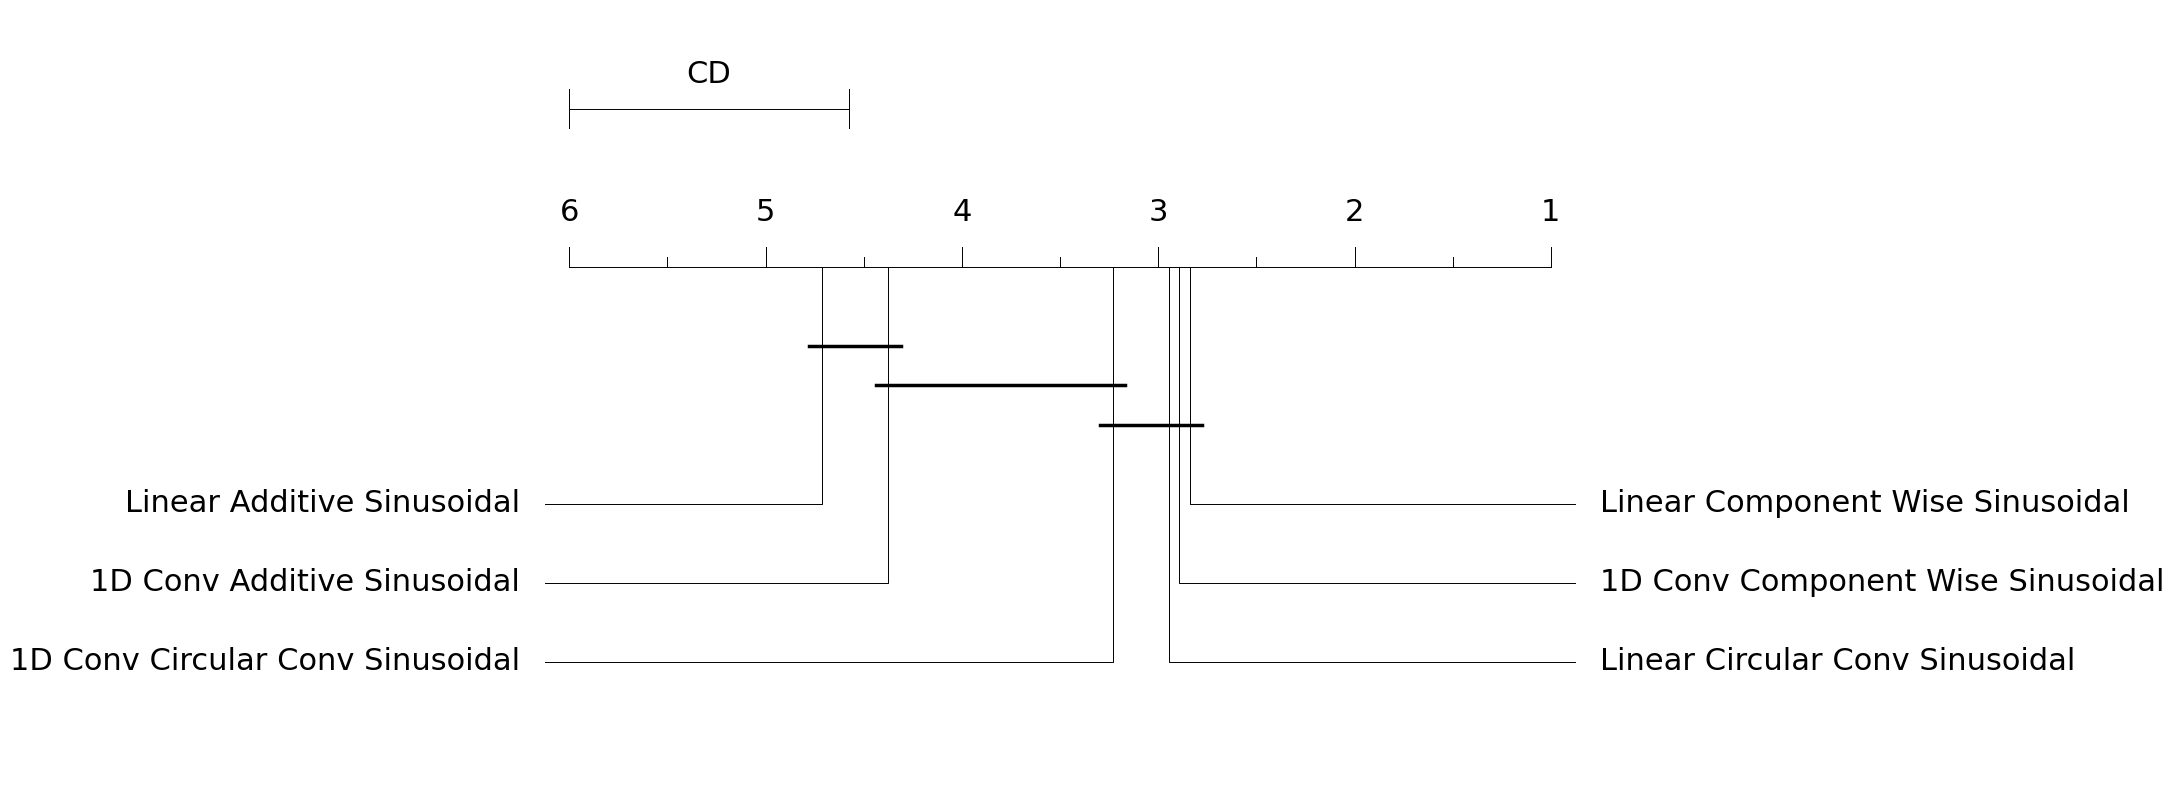
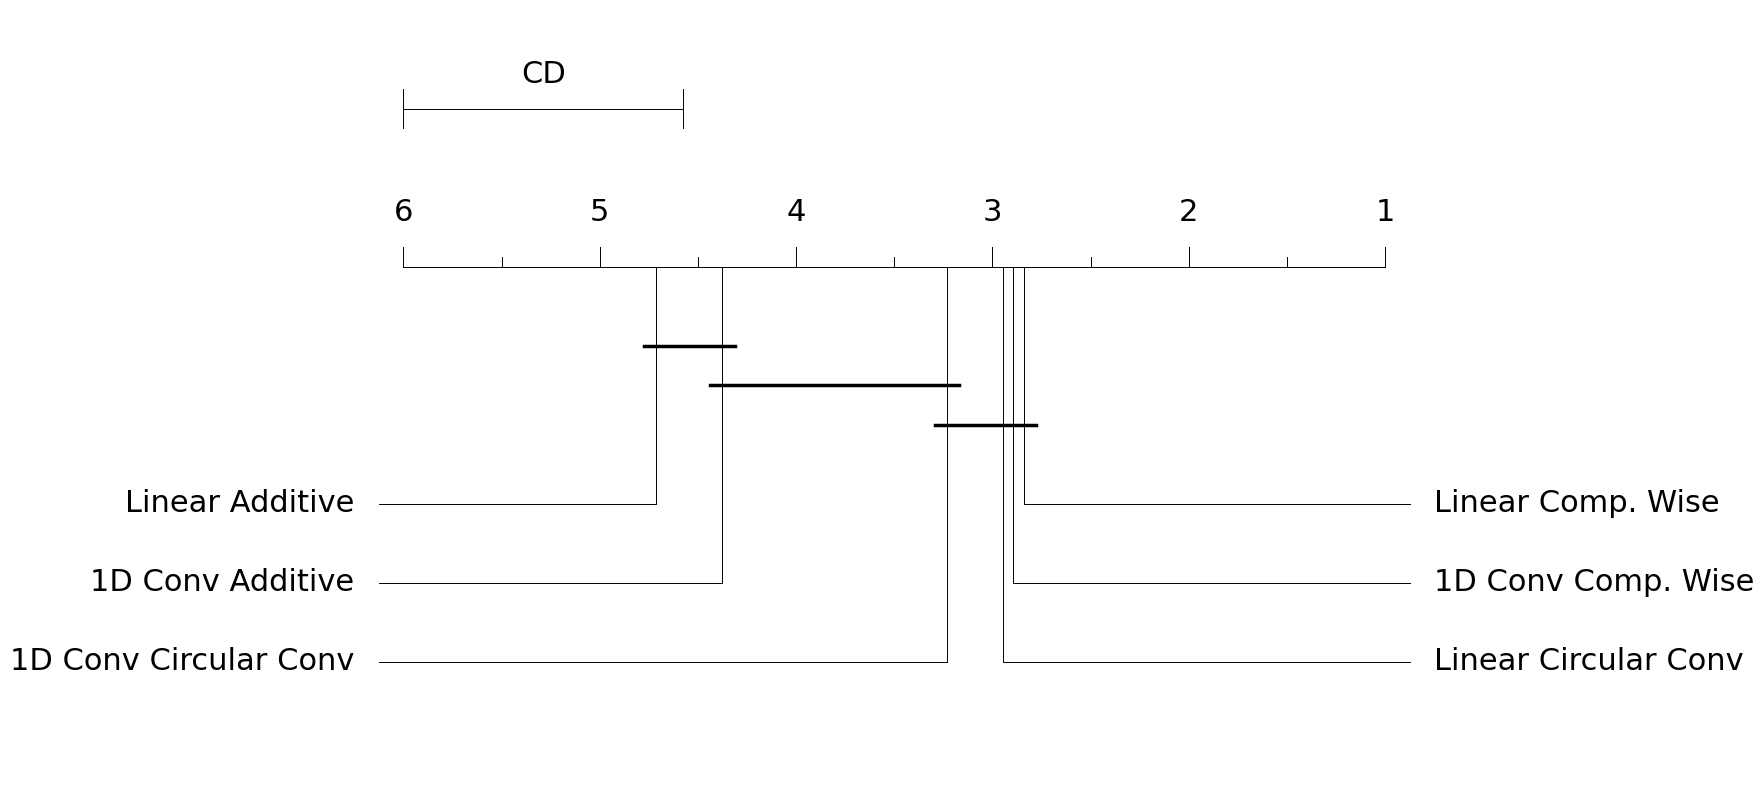
modularize data preparation

diff --git a/src/experiments/visualization/paper.py b/src/experiments/visualization/paper.py
@@ -44,11 +44,6 @@ def plot_cd_diagram(metrics: pandas.DataFrame, output_path: pathlib.Path | None 
         metrics (pandas.DataFrame): DataFrame containing experiment metrics.
         output_path (pathlib.Path): Path to save the CD diagram.
     """
-    # Format the metrics DataFrame
-    metrics.drop(columns=["train_samples", "sequence_length", "num_classes"], inplace=True)
-    metrics.set_index("dataset", inplace=True)
-    metrics.columns = metrics.columns.str.replace("_", " ").str.title()
-
     # Get only the accuracy values
     metrics = metrics.map(get_average_acc)
 
@@ -93,15 +88,6 @@ def plot_bar_mean_accuracies(metrics: pandas.DataFrame, output_path: pathlib.Pat
     # Convert to percentage
     mean_accuracies["mean_acc"] = mean_accuracies["mean_acc"] * 100
 
-    # Adjust name of model for better display
-    mean_accuracies["model"] = (
-        mean_accuracies["model"]
-        .str.replace("_", " ")
-        .str.title()
-        .str.replace("Sinusoidal", "")
-        .str.replace("Component", "Comp.")
-    )
-
     # Create bar plot
     fig, ax = pyplot.subplots(nrows=1, ncols=1)
     ax.bar(mean_accuracies["model"], mean_accuracies["mean_acc"], label=mean_accuracies["model"], color=modern_palette)
@@ -138,31 +124,11 @@ def plot_bar_dataset_acc(metrics: pandas.DataFrame, output_path: pathlib.Path) -
     # Apply style configuration
     matplotlib.rcParams.update(rc_config)
 
-    # Prepare Data
     # Create a copy to avoid modifying the original dataframe outside this function
     metrics_ = metrics.copy()
 
-    # Drop metadata columns if they exist
-    cols_to_drop = ["train_samples", "sequence_length", "num_classes"]
-    metrics_.drop(columns=[c for c in cols_to_drop if c in metrics_.columns], inplace=True)
-
-    # Set dataset as index
-    if "dataset" in metrics_.columns:
-        metrics_.set_index("dataset", inplace=True)
-
     # Convert "mean ± std" strings to float values and to percentage
     metrics_ = metrics_.map(get_average_acc) * 100
-
-    # Format Model Names (Columns)
-    # Apply the same string formatting as in plot_bar_mean_accuracies
-    metrics_.columns = (
-        metrics_.columns
-        .str.replace("_", " ")
-        .str.title()
-        .str.replace("Sinusoidal", "")
-        .str.replace("Component", "Comp.")
-        .str.strip()
-    )
 
     # Setup Plot Dimensions
     num_datasets = len(metrics_)
@@ -261,15 +227,8 @@ def plot_relative_accuracy_scatter(metrics: pandas.DataFrame, output_path: pathl
     # Apply style
     matplotlib.rcParams.update(rc_config)
 
-    # Prepare Data
+    # Create a copy to avoid modifying the original dataframe outside this function
     metrics_ = metrics.copy()
-
-    # Drop metadata
-    cols_to_drop = ["train_samples", "sequence_length", "num_classes"]
-    metrics_.drop(columns=[c for c in cols_to_drop if c in metrics_.columns], inplace=True)
-
-    if "dataset" in metrics_.columns:
-        metrics_.set_index("dataset", inplace=True)
 
     # Convert strings to floats
     metrics_ = metrics_.map(get_average_acc)
@@ -285,16 +244,6 @@ def plot_relative_accuracy_scatter(metrics: pandas.DataFrame, output_path: pathl
     # Positive value = Model performed better than average on this dataset
     # Negative value = Model performed worse than average
     relative_acc = metrics_.sub(dataset_means, axis=0)
-
-    # Format Model Names
-    relative_acc.columns = (
-        relative_acc.columns
-        .str.replace("_", " ")
-        .str.title()
-        .str.replace("Sinusoidal", "")
-        .str.replace("Component", "Comp.")
-        .str.strip()
-    )
 
     # Plotting
     num_models = len(relative_acc.columns)
@@ -380,10 +329,36 @@ def plot_cd_diagram_of_experiment(experiment_name: str, plot_name: str, exp_data
     # Metrics by model
     metrics_by_model = get_metrics(exp_model_metrics)
 
+    # Data Preparation
+    # Drop metadata columns if they exist
+    cols_to_drop = ["train_samples", "sequence_length", "num_classes"]
+    metrics_by_dataset.drop(columns=cols_to_drop, inplace=True, errors="ignore")
+
+    # Set index for dataset metrics
+    metrics_by_dataset.set_index("dataset", inplace=True)
+
+    metrics_by_model["model"] = (
+        metrics_by_model["model"]
+        .str.replace("_", " ")
+        .str.title()
+        .str.replace("Sinusoidal", "")
+        .str.replace("Component", "Comp.")
+    )
+
+    # Format Model Names
+    metrics_by_dataset.columns = (
+        metrics_by_dataset.columns
+        .str.replace("_", " ")
+        .str.title()
+        .str.replace("Sinusoidal", "")
+        .str.replace("Component", "Comp.")
+        .str.strip()
+    )
+
     # For Experiment 1, the `split_sinusoidal` variants are not included in the CD diagram, as explained in the README for experiment 1 results directory.
     if "Experiment 1" in experiment_name:
         # Remove the columns that contains 'split_sinusoidal' in their names.
-        split_sin_columns = metrics_by_dataset.columns[metrics_by_dataset.columns.str.contains("split_sinusoidal")].tolist()
+        split_sin_columns = metrics_by_dataset.columns[metrics_by_dataset.columns.str.contains("Split")].tolist()
 
         if split_sin_columns:
             print(f"Removing columns: {split_sin_columns} from the metrics DataFrame.")
@@ -392,18 +367,19 @@ def plot_cd_diagram_of_experiment(experiment_name: str, plot_name: str, exp_data
     # Define the output path for the CD diagram
     plot_path = Config.plot_dir / "experiment" / plot_name
     plot_path.parent.mkdir(parents=True, exist_ok=True)
+    plot_suffix = plot_name.split("/")[-1].replace("_CD.png", "")
 
     # Plot the CD diagram
     plot_cd_diagram(metrics=metrics_by_dataset, output_path=plot_path)
 
     # Create bar plot of mean accuracies
-    plot_bar_mean_accuracies(metrics=metrics_by_model, output_path=plot_path.parent / "mean_accuracies.png")
+    plot_bar_mean_accuracies(metrics=metrics_by_model, output_path=plot_path.parent / f"{plot_suffix}_mean_accuracies.png")
 
     # Create bar plot of dataset accuracies
-    plot_bar_dataset_acc(metrics=metrics_by_dataset, output_path=plot_path.parent / "dataset_accuracies.png")
+    plot_bar_dataset_acc(metrics=metrics_by_dataset, output_path=plot_path.parent / f"{plot_suffix}_dataset_accuracies.png")
 
     # Create scatter plot of relative accuracies
-    plot_relative_accuracy_scatter(metrics=metrics_by_dataset, output_path=plot_path.parent / "relative_accuracies.png")
+    plot_relative_accuracy_scatter(metrics=metrics_by_dataset, output_path=plot_path.parent / f"{plot_suffix}_relative_accuracies.png")
 
 
 if __name__ == "__main__":
@@ -418,22 +394,29 @@ if __name__ == "__main__":
     exp_to_plot: list[dict[str, str | pathlib.Path]] = [
         {
             "experiment_name": "Experiment 1",
-            "plot_path": f"{exp1_dir_name}/binding_v1_CD.png",
+            "plot_name": f"{exp1_dir_name}/binding_v1_CD.png",
             "exp_dataset_metrics": exp_results_dir / exp1_dir_name / "summary_dataset_results.csv",
             "exp_model_metrics": exp_results_dir / exp1_dir_name / "summary_model_metrics_binding_version_1.csv",
         },
         # {
         #     "experiment_name": "Experiment 4 Component Wise",
-        #     "plot_path": f"{exp4_comp_dir_name}/component_wise_1_CD.png",
+        #     "plot_name": f"{exp4_comp_dir_name}/component_wise_1_CD.png",
         #     "exp_dataset_metrics": exp_results_dir / exp4_comp_dir_name / "summary_dataset_results.csv",
         #     "exp_model_metrics": exp_results_dir / exp4_comp_dir_name / "",
+        # },
+        # {
+        #     "experiment_name": "Experiment 4 CConv",
+        #     "plot_name": f"{exp4_cconv_dir_name}/cconv_1_CD.png",
+        #     "exp_dataset_metrics": exp_results_dir / exp4_cconv_dir_name / "summary_dataset_results.csv",
+        #     "exp_model_metrics": exp_results_dir / exp4_cconv_dir_name / "",
         # },
     ]
 
     for exp in exp_to_plot:
         plot_cd_diagram_of_experiment(
-            experiment_name=str(exp["experiment_name"]),
-            plot_name=str(exp["plot_path"]),
-            exp_dataset_metrics=pathlib.Path(exp["exp_dataset_metrics"]),
-            exp_model_metrics=pathlib.Path(exp["exp_model_metrics"]),
+            # experiment_name=str(exp["experiment_name"]),
+            # plot_name=str(exp["plot_path"]),
+            # exp_dataset_metrics=pathlib.Path(exp["exp_dataset_metrics"]),
+            # exp_model_metrics=pathlib.Path(exp["exp_model_metrics"]),
+            **exp
         )
